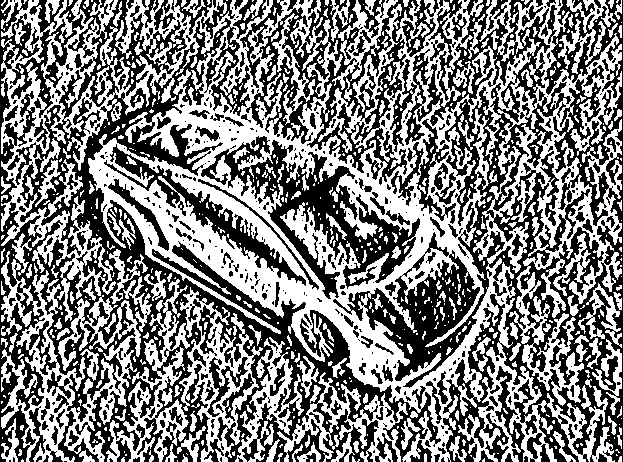
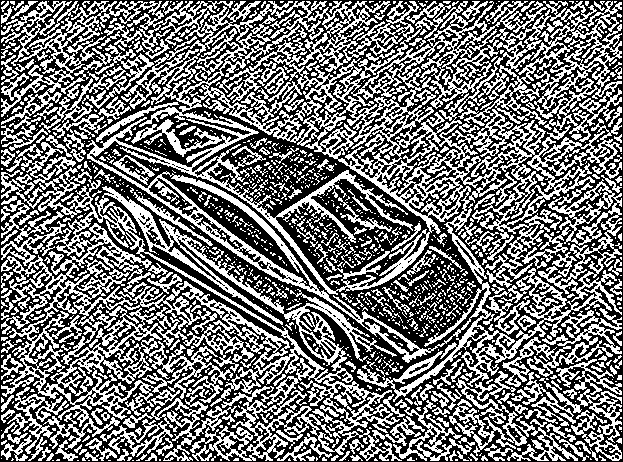
fix ass_3

diff --git a/assignment_3/solutions/main.py b/assignment_3/solutions/main.py
@@ -7,7 +7,7 @@ def sobel_edge_detection(image):
 
     image_blur = cv2.GaussianBlur(image_gray, (3, 3), 0)
 
-    sobelxy = (255*cv2.Sobel(image_blur,cv2.CV_64F,1,1,5) ).clip(0,255).astype(np.uint8)
+    sobelxy = (255*cv2.Sobel(image_blur,cv2.CV_64F,1,1, ksize=1) ).clip(0,255).astype(np.uint8)
     cv2.imwrite("saved_pictures/sobel_lambo.png", sobelxy)
     return sobelxy
 
